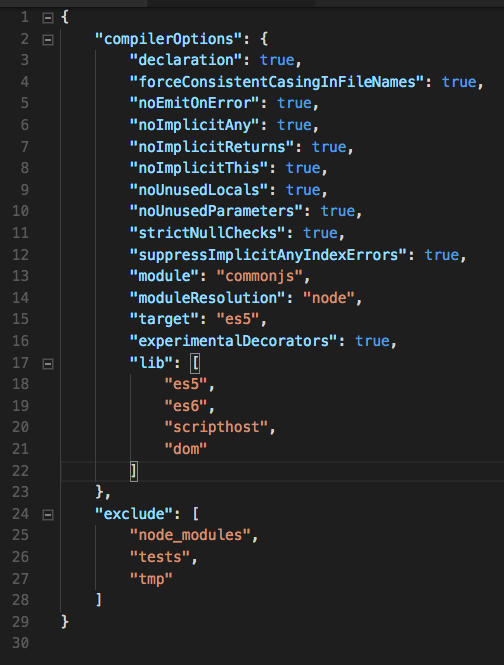
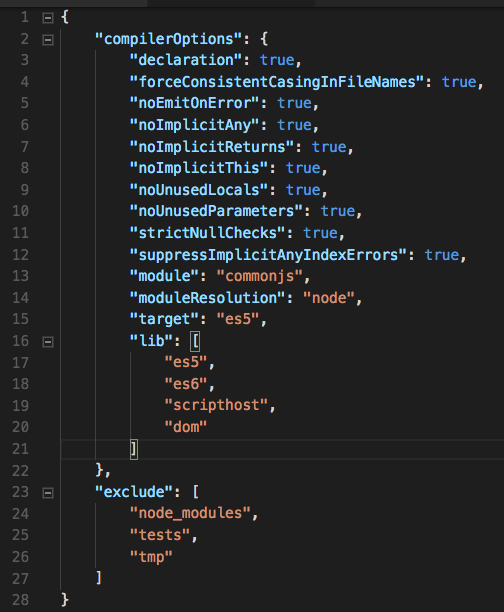
Updates es6-compilation.md
Auto commit by GitBook Editor

diff --git a/es6-compilation.md b/es6-compilation.md
@@ -4,7 +4,7 @@ For various reasons we have chosen to keep the default compilation targeting ES5
 
 Switching to ES2015 is easy, and done in less than a minute.
 
-You just need to change the `target`parameter of `tsconfig.json` to "ES66". At the same time, you should remove the settings for `experimentaldecorators`and `lib`, both which we just use for the current ES5 approach.
+You just need to change the `target`parameter of `tsconfig.json` to "ES66". At the same time, you should remove the settings for `lib`,  which we just use for the current ES5 approach.
 
 Remember to rebuild once you have done the change to compile against the right setting.
 
